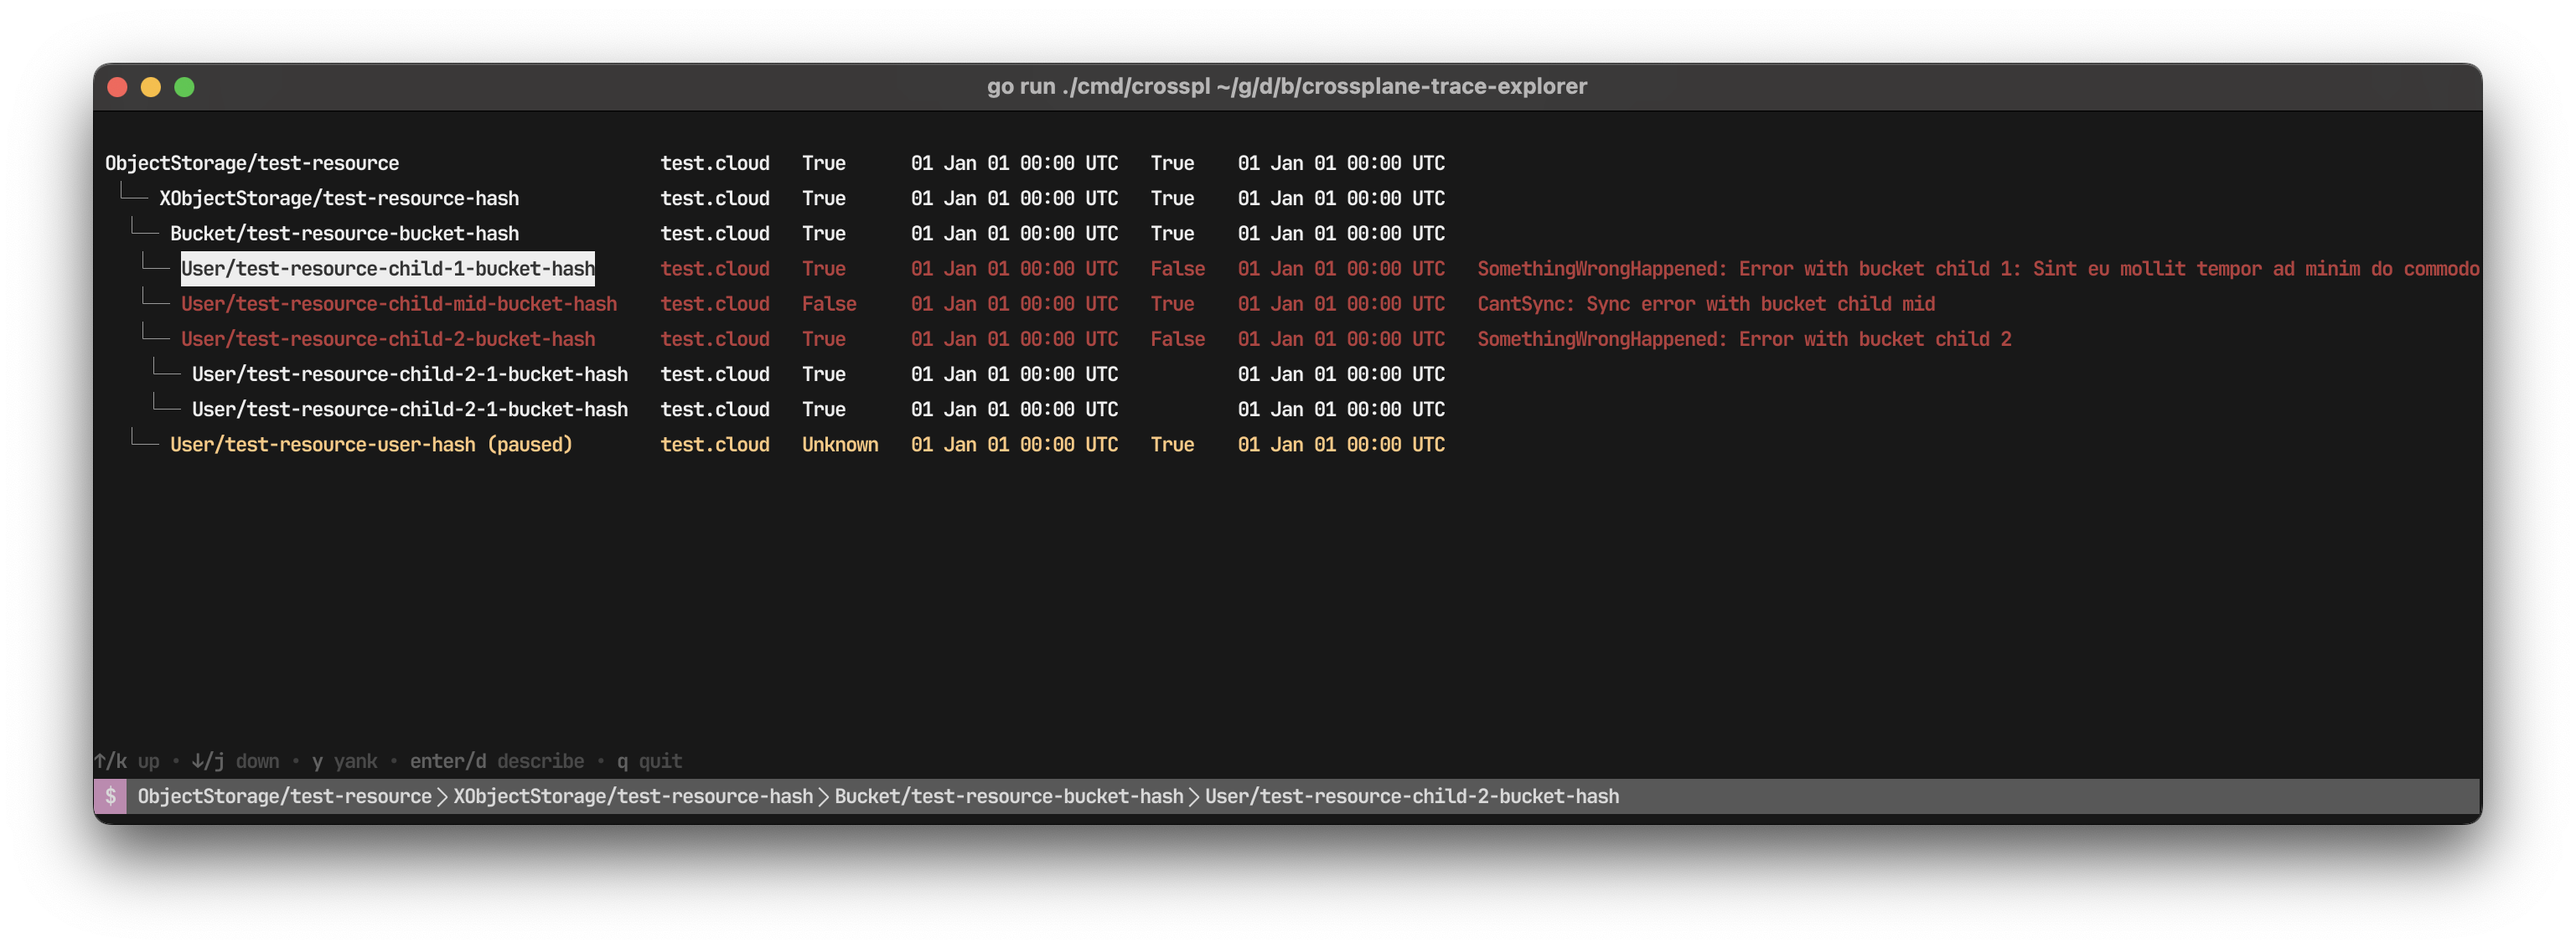
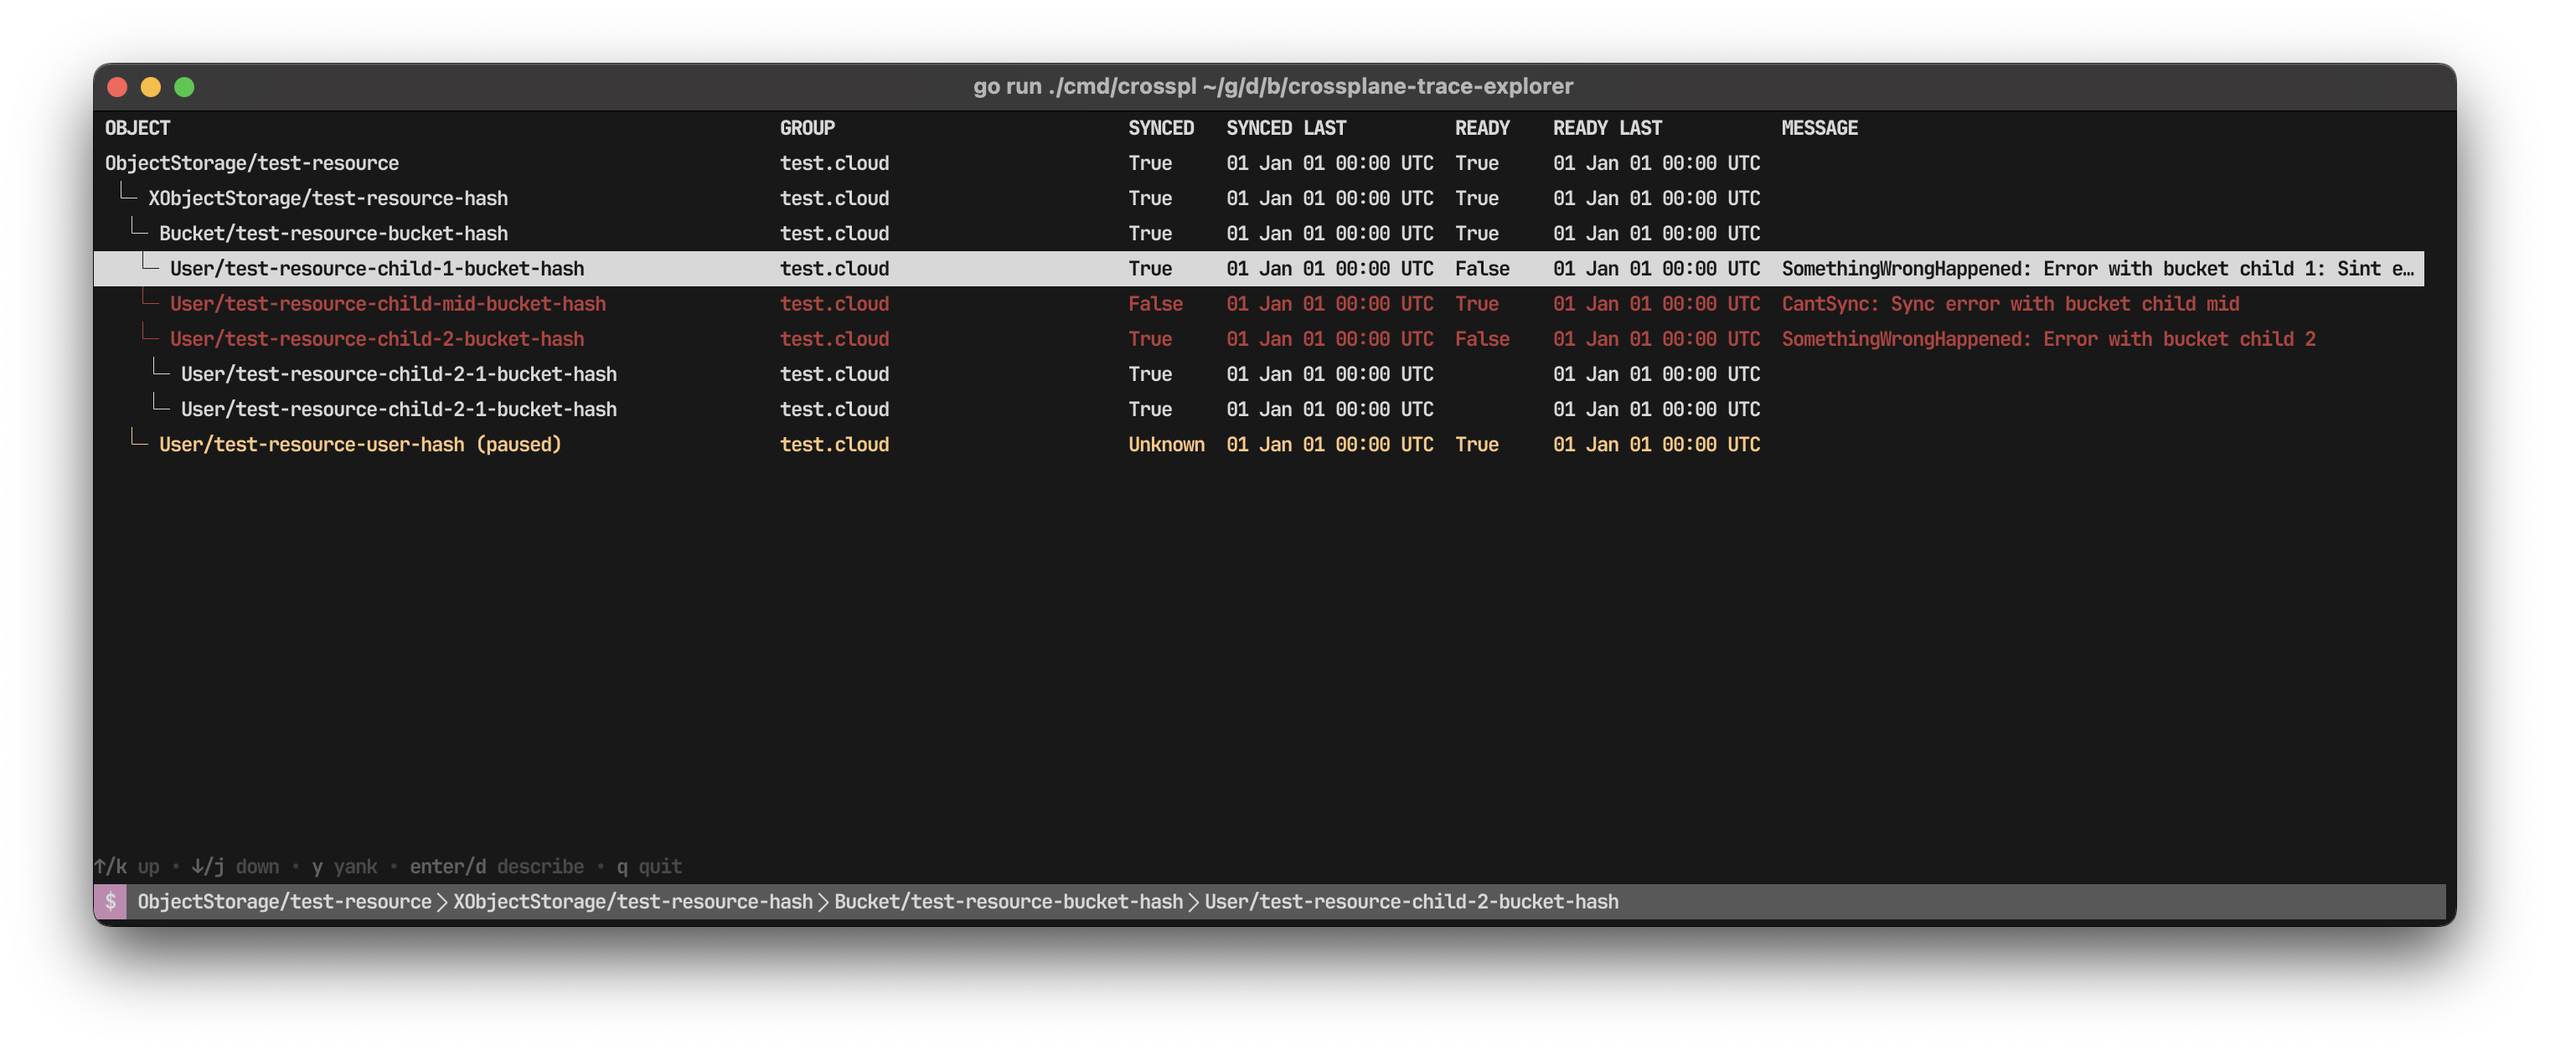
docs: update documentation

Changed region(s): [[0.0312, 0.0618, 0.9675, 0.4947], [0.0312, 0.773, 0.9675, 0.8966]]

diff --git a/README.md b/README.md
@@ -57,6 +57,7 @@ crossplane beta trace Bucket/test-resource-bucket-hash -o json | crossplane-expl
 ## 🧾 To-do
 
 - Re-do the `addNodes` feature
-- Add comments to functions
 - Allow short and wide table format
 - Understand why first render of statusbar is not rendering selected path without hack
+- Re-do components similar to how they are done in `bubbles` (setters instead of event handlers; return Model instead of tea.Model; no usage of pointers)
+- Dynamic width for the tree table
